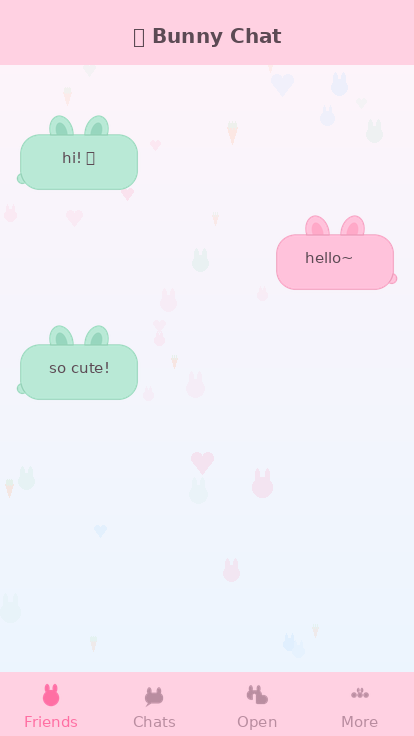
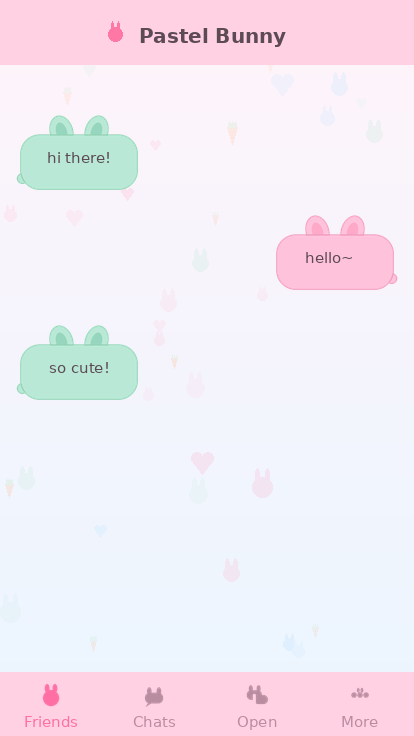
Add custom theme thumbnail for the theme list
- Generate a Pastel Bunny tile (title + hero bunny bubbles + pattern)
  at @1x/@2x/@3x and reference it from ManifestStyle
- Replace emoji placeholders (rendered as tofu) with drawn bunny motifs
  in the preview; refresh README with the thumbnail image

diff --git a/theme/KakaoTalk.css b/theme/KakaoTalk.css
@@ -20,6 +20,7 @@ ManifestStyle {
     -ios-theme-version: "1.0.0";
     -ios-theme-author: "jenna-studio";
     -ios-theme-url: "https://github.com/jenna-studio/kakaotalk-theme";
+    -ios-theme-thumbnail-image: url(Images/thumbnail.png);
 }
 
 /* ---- Global background / text ------------------------------------------ */

diff --git a/scripts/generate_images.py b/scripts/generate_images.py
@@ -326,7 +326,8 @@ try:
 except Exception:
     font = ImageFont.load_default()
     sfont = ImageFont.load_default()
-md.text((PW // 2, 36), "🐰 Bunny Chat", font=font, fill=TEXT_DARK, anchor="mm")
+_motif_bunny(md, PW // 2 - 92, 34, 7, (255, 120, 165, 255))
+md.text((PW // 2 + 6, 36), "Pastel Bunny", font=font, fill=TEXT_DARK, anchor="mm")
 
 def place_bubble(master, x, y, scale):
     b = master.resize((int(master.width * scale), int(master.height * scale)), Image.LANCZOS)
@@ -336,7 +337,7 @@ def place_bubble(master, x, y, scale):
 # received (mint) on left, sent (pink) on right
 b1 = place_bubble(recv, 16, 110, 0.42)
 md.text((16 + b1.width // 2, 110 + b1.height // 2 + 6),
-        "hi! 🐇", font=sfont, fill=TEXT_DARK, anchor="mm")
+        "hi there!", font=sfont, fill=TEXT_DARK, anchor="mm")
 b2 = place_bubble(sent, PW - 16 - int(sent.width * 0.42), 210, 0.42)
 md.text((PW - 16 - int(sent.width * 0.42) // 2 - 6, 210 + b2.height // 2 + 6),
         "hello~", font=sfont, fill=TEXT_DARK, anchor="mm")
@@ -364,4 +365,43 @@ for i, (nm, on) in enumerate(tab_order):
 
 mock.convert("RGB").save(os.path.join(PREVIEW_DIR, "preview.png"))
 
-print("Done. Assets in theme/Images/, preview in preview/preview.png")
+# ---- theme thumbnail (tile shown in KakaoTalk's theme list) ---------------
+print("Rendering theme thumbnail...")
+# Master at @3x; portrait tile like a mini phone screen.
+TW, TH = 540, 720
+thumb = gradient((TW, TH), BG_TOP, BG_BOT)
+thumb = cute_pattern(thumb, density=60).convert("RGBA")
+td = ImageDraw.Draw(thumb)
+
+try:
+    big = ImageFont.truetype("/usr/share/fonts/truetype/dejavu/DejaVuSans-Bold.ttf", 60)
+    sub = ImageFont.truetype("/usr/share/fonts/truetype/dejavu/DejaVuSans.ttf", 30)
+    tin = ImageFont.truetype("/usr/share/fonts/truetype/dejavu/DejaVuSans.ttf", 26)
+except Exception:
+    big = sub = tin = ImageFont.load_default()
+
+# soft rounded inner frame
+td.rounded_rectangle([18, 18, TW - 18, TH - 18], radius=42,
+                     outline=(255, 255, 255, 180), width=8)
+
+# hero: a big pink bunny bubble + a smaller mint one, overlapping
+hero = sent.resize((int(sent.width * 1.15), int(sent.height * 1.15)), Image.LANCZOS)
+thumb.alpha_composite(hero, ((TW - hero.width) // 2 + 28, 250))
+mini = recv.resize((int(recv.width * 0.72), int(recv.height * 0.72)), Image.LANCZOS)
+thumb.alpha_composite(mini, (54, 360))
+
+# decorative bunnies in the corners
+_motif_bunny(td, 70, 70, 16, (255, 130, 170, 200))
+_motif_bunny(td, TW - 80, 96, 13, (160, 210, 255, 200))
+
+# title
+td.text((TW // 2, 150), "Pastel", font=big, fill=(255, 111, 163), anchor="mm")
+td.text((TW // 2, 210), "Bunny", font=big, fill=TEXT_DARK, anchor="mm")
+td.text((TW // 2, TH - 70), "KakaoTalk theme", font=tin, fill=(150, 120, 134),
+        anchor="mm")
+
+thumb_rgb = thumb.convert("RGB")
+save_variants(thumb_rgb, "thumbnail")          # theme/Images/thumbnail*.png
+thumb_rgb.save(os.path.join(PREVIEW_DIR, "thumbnail.png"))
+
+print("Done. Assets in theme/Images/, previews in preview/")

diff --git a/README.md b/README.md
@@ -25,9 +25,14 @@ PastelBunny.ktheme  (zip)
     ├── chatBubbleReceived.png    (+@2x/@3x)   mint bunny
     ├── bg_chatroom*.png                       bunny/heart/carrot pattern
     ├── bg_friends*.png / bg_chats*.png        lighter matching pattern
-    └── tab_{friends,chats,openchat,more}.png  bunny tab icons
-        + each tab_*_on.png (selected, pink)   (all +@2x/@3x)
+    ├── tab_{friends,chats,openchat,more}.png  bunny tab icons
+    │   + each tab_*_on.png (selected, pink)   (all +@2x/@3x)
+    └── thumbnail*.png                         theme-list tile
 ```
+
+The theme tile shown in KakaoTalk's theme list:
+
+![thumbnail](preview/thumbnail.png)
 
 Styling uses Kakao's custom `-ios-*` CSS properties (e.g.
 `-ios-background-image`, `-ios-text-color`).
